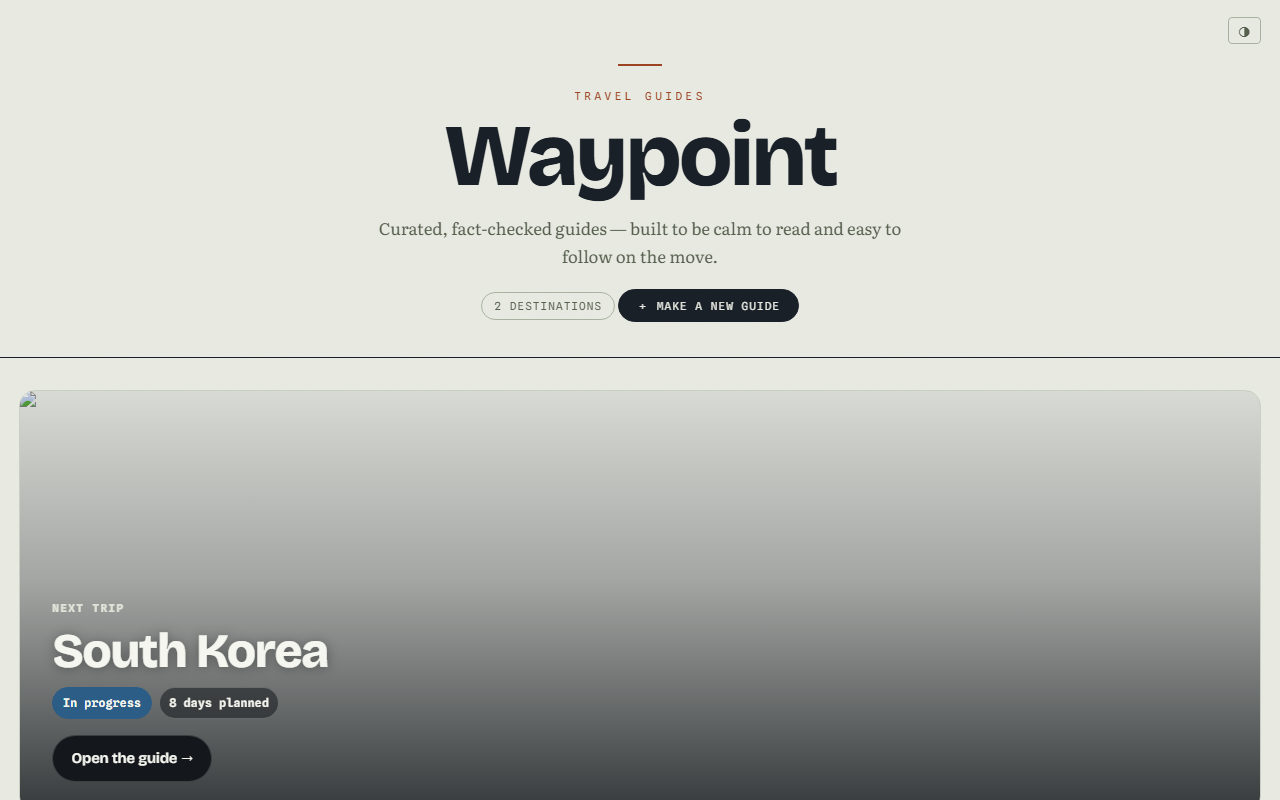
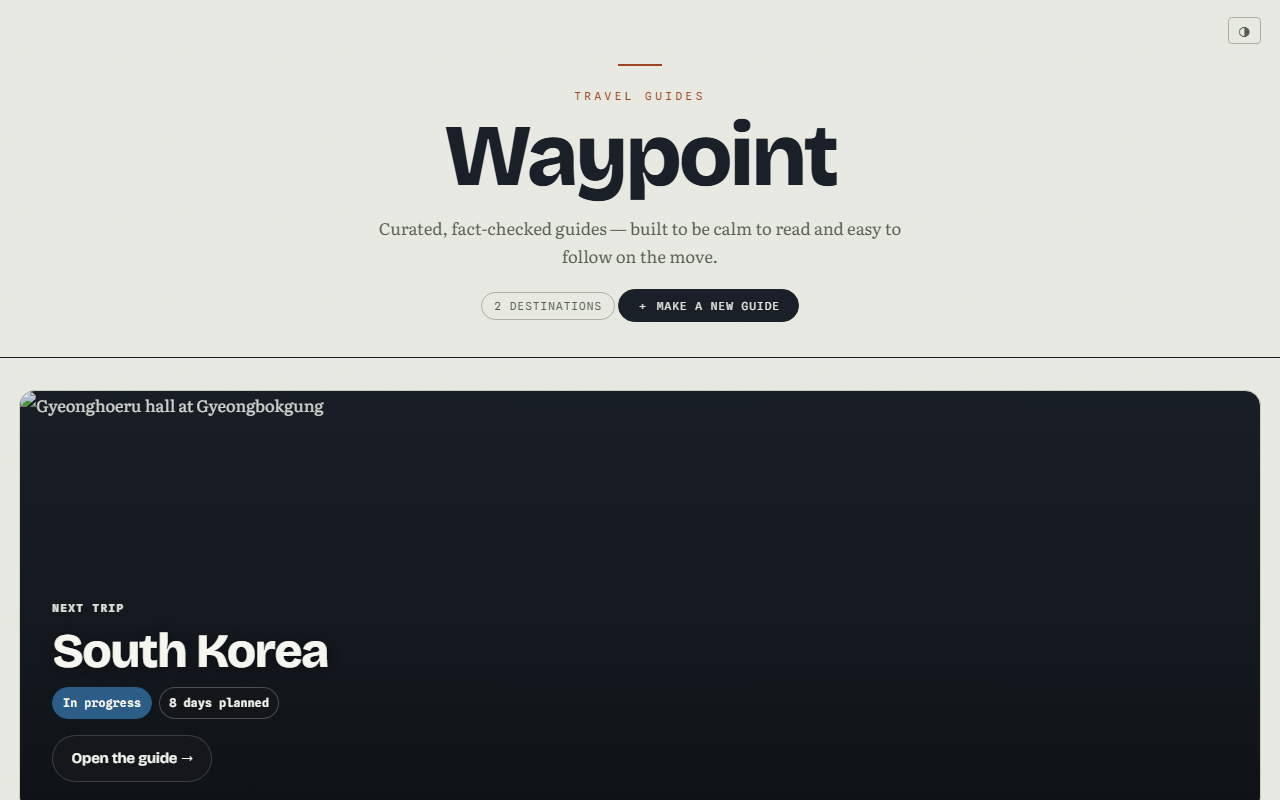
Phase 5b (convergence): View Transitions, route ribbon, dest-tz today, axe+Lighthouse CI — and the contrast bugs the new gate caught
Visible-by-design enhancements + quality gates, all branch-only:

- Native MPA View Transitions (hub <-> guide crossfade): pure CSS in base.css,
  progressive (unsupported browsers no-op), reduced-motion never opts in,
  timings ride the Phase 2 motion tokens.
- Route ribbon: dashed accent path connecting the numbered route steps — map
  vocabulary matching the cartographic identity; pure CSS, zero JS. Verified
  rendering live (2px dashed, per-guide accent).
- Destination-timezone "today": todayInTz() in util.js (+3 tests, injected
  clock) now drives BOTH the jump-to-today and the what's-next banner —
  fixes the device-clock bug WayFinder's retrospective warned about (a viewer
  at home now sees the traveler's in-country day). Verified live: banner shows
  "GO Fest Day 1 in Daejeon" — correct for Jul 11 in Seoul.
- a11y gate: axe-core rides the deterministic Playwright harness (hub +
  korea); serious/critical violations FAIL, minor report-only. It immediately
  caught real bugs, now fixed: hub-hero light-on-light fallback when the photo
  is absent (slow network/offline — bg now fixed dark ink under the photo) and
  opacity-dimmed tiny text (.hol-credit, .offline-note) under 4.5:1. Baselines
  regenerated for the intentional hero-fallback fix; suite 10/10.
- Lighthouse CI: report-only job on PRs (staticDistDir mirrored under the
  /Trip-Guides base path), never blocks; the binding perf gate stays
  check-perf-budget.mjs in the deploy.
[…]

diff --git a/tests/visual/a11y.spec.ts b/tests/visual/a11y.spec.ts
@@ -1,0 +1,37 @@
+/* Accessibility gate — axe-core over the hub + Korea guide, riding the same
+   deterministic harness as the visual suite (fixed clock, network aborted).
+   GATE: zero serious/critical violations. Minor/moderate findings are reported
+   to the console but don't fail — tighten once the backlog is empty. */
+import { test, expect, type Page } from "@playwright/test";
+import AxeBuilder from "@axe-core/playwright";
+
+const FIXED_TIME = new Date("2026-09-01T10:00:00+09:00");
+
+async function prep(page: Page, path: string) {
+  await page.route("**/*", (route) =>
+    route.request().url().startsWith("http://localhost:4322") ? route.continue() : route.abort(),
+  );
+  await page.clock.setFixedTime(FIXED_TIME);
+  await page.goto(path, { waitUntil: "networkidle" });
+  await page.waitForTimeout(400);
+}
+
+for (const [name, path] of [
+  ["hub", "/Trip-Guides/"],
+  ["korea guide", "/Trip-Guides/guides/korea/"],
+] as const) {
+  test(`a11y — ${name}`, async ({ page }) => {
+    await prep(page, path);
+    const results = await new AxeBuilder({ page }).analyze();
+    const bad = results.violations.filter((v) => v.impact === "serious" || v.impact === "critical");
+    const minor = results.violations.filter((v) => v.impact !== "serious" && v.impact !== "critical");
+    if (minor.length) {
+      console.log(`[a11y] ${name}: ${minor.length} minor/moderate finding(s) (non-blocking):`);
+      for (const v of minor) console.log(`  · ${v.id} (${v.impact}) — ${v.nodes.length} node(s): ${v.help}`);
+    }
+    expect(
+      bad.map((v) => `${v.id} (${v.impact}) — ${v.help}\n  ${v.nodes.slice(0, 3).map((n) => n.target.join(" ")).join("\n  ")}`),
+      "serious/critical accessibility violations",
+    ).toEqual([]);
+  });
+}

diff --git a/src/scripts/util.test.ts b/src/scripts/util.test.ts
@@ -1,0 +1,26 @@
+import { describe, it, expect } from "vitest";
+// @ts-expect-error — plain-JS module, no types needed for this test
+import { todayInTz } from "./util.js";
+
+// Fixed instants (injectable clock — never the real one).
+// 2026-07-10T20:00:00Z = Jul 11 05:00 in Seoul (UTC+9), Jul 10 16:00 in New York.
+const INSTANT = new Date("2026-07-10T20:00:00Z");
+
+describe("todayInTz", () => {
+  it("returns the DESTINATION calendar day, not the device/UTC day", () => {
+    expect(todayInTz("Asia/Seoul", INSTANT)).toEqual({ y: 2026, m: 7, d: 11 });
+    expect(todayInTz("America/New_York", INSTANT)).toEqual({ y: 2026, m: 7, d: 10 });
+  });
+
+  it("handles the year boundary across timezones", () => {
+    const nye = new Date("2026-12-31T16:00:00Z"); // Jan 1 01:00 Seoul, Dec 31 11:00 NY
+    expect(todayInTz("Asia/Seoul", nye)).toEqual({ y: 2027, m: 1, d: 1 });
+    expect(todayInTz("America/New_York", nye)).toEqual({ y: 2026, m: 12, d: 31 });
+  });
+
+  it("returns null for a missing or invalid timezone (caller falls back)", () => {
+    expect(todayInTz(null, INSTANT)).toBeNull();
+    expect(todayInTz("", INSTANT)).toBeNull();
+    expect(todayInTz("Not/AZone", INSTANT)).toBeNull();
+  });
+});

diff --git a/src/scripts/util.js b/src/scripts/util.js
@@ -13,3 +13,21 @@ export function reducedMotion() {
 export function tapHaptic() {
   try { navigator.vibrate && navigator.vibrate(9); } catch (e) {}
 }
+
+/* Today's calendar date AT THE DESTINATION (IANA tz), not on the device —
+   "today" for a trip means the traveler's day in-country (WayFinder
+   retrospective: using the device clock breaks today-semantics for anyone
+   checking the guide from another timezone). Returns {y, m (1-12), d}, or
+   null when tz is absent/invalid (callers fall back to the device date).
+   `now` is injectable for tests. */
+export function todayInTz(tz, now) {
+  if (!tz) return null;
+  try {
+    var parts = new Intl.DateTimeFormat("en-CA", {
+      timeZone: tz, year: "numeric", month: "2-digit", day: "2-digit",
+    }).formatToParts(now || new Date());
+    var get = function (t) { return Number((parts.find(function (p) { return p.type === t; }) || {}).value); };
+    var y = get("year"), m = get("month"), d = get("day");
+    return y && m && d ? { y: y, m: m, d: d } : null;
+  } catch (e) { return null; }
+}

diff --git a/src/scripts/guide-ui.js b/src/scripts/guide-ui.js
@@ -2,6 +2,8 @@
 // single hashed module cached across every guide page (was ~950 lines inline per
 // page). Config that used to come from Astro define:vars is now read from the
 // #tgConfig JSON script tag emitted by the layout.
+import { todayInTz } from "./util.js";
+
 const _cfgEl = document.getElementById("tgConfig");
 const _cfg = _cfgEl ? JSON.parse(_cfgEl.textContent || "{}") : {};
 const order             = _cfg.order || [];
@@ -277,9 +279,13 @@ const daysForBanner     = _cfg.daysForBanner || [];
 
           /* ── 3a. JUMP TO TODAY ──────────────────────────────────────── */
           (function () {
+            // "Today" means the traveler's day AT THE DESTINATION — a viewer
+            // checking from another timezone must see the in-country day, not
+            // their device's (falls back to the device date without a tz).
+            var destToday = todayInTz(destTzIana);
             var now = new Date();
-            var mo  = now.getMonth() + 1;
-            var d   = now.getDate();
+            var mo  = destToday ? destToday.m : now.getMonth() + 1;
+            var d   = destToday ? destToday.d : now.getDate();
             // Match day cards whose .d label contains today's month-day (e.g. "Jul 9", "Jul 14")
             var plain  = MONTHS[mo - 1] + " " + d;
             document.querySelectorAll(".day").forEach(function (card) {
@@ -559,7 +565,9 @@ const daysForBanner     = _cfg.daysForBanner || [];
             var text  = document.getElementById("wnText");
             if (!box || !text || !daysForBanner.length) return;
 
-            var now = new Date();
+            // Destination-calendar "today" (see 3a) — device date only as fallback.
+            var _dt = todayInTz(destTzIana);
+            var now = _dt ? new Date(_dt.y, _dt.m - 1, _dt.d) : new Date();
             var firstParts = String(daysForBanner[0].date).split(/\s+/);
             var firstMoIdx = MONTHS.indexOf(firstParts[1]);
             var firstDay   = parseInt(firstParts[2], 10);
@@ -585,7 +593,7 @@ const daysForBanner     = _cfg.daysForBanner || [];
             });
             if (!days.length) return;
 
-            var today = new Date(); today.setHours(0, 0, 0, 0);
+            var today = new Date(now); today.setHours(0, 0, 0, 0); // dest-calendar day (from `now` above)
             if (today < days[0].date || today > days[days.length - 1].date) return;
 
             var match    = days.find(function (d) { return d.date.getTime() === today.getTime(); });

diff --git a/src/styles/base.css b/src/styles/base.css
@@ -36,6 +36,17 @@
   --bg:#14181c;--bg2:#1b2026;--ink:#e5e9e0;--card:#1e242b;--rule:#333b44;--rule2:#48525c;--muted:#97a08f;--green:#6aab76;--warn:#d9923f}}
 [data-theme="dark"]{--bg:#14181c;--bg2:#1b2026;--ink:#e5e9e0;--card:#1e242b;--rule:#333b44;--rule2:#48525c;--muted:#97a08f;--green:#6aab76;--warn:#d9923f}
 
+/* --- CROSS-PAGE VIEW TRANSITIONS ------------------------------------------- */
+/* Native MPA View Transitions (hub ↔ guide): a brief crossfade instead of the
+   hard white flash. Pure progressive enhancement — browsers without the API
+   ignore all of this; reduced-motion never opts in (the @media wrapper IS the
+   documented opt-out pattern). Timings ride the motion tokens above. */
+@media (prefers-reduced-motion: no-preference) {
+  @view-transition { navigation: auto; }
+  ::view-transition-old(root) { animation-duration: var(--dur-ui) }
+  ::view-transition-new(root) { animation-duration: var(--dur-reveal); animation-timing-function: var(--ease-out-expo) }
+}
+
 /* --- RESET & BASE ---------------------------------------------------------- */
 *{margin:0;padding:0;box-sizing:border-box}
 [hidden]{display:none!important}

diff --git a/src/styles/guide.css b/src/styles/guide.css
@@ -249,6 +249,10 @@ a.stale-pill:hover{background:color-mix(in srgb,var(--warn) 12%,transparent)}
 ol.steps{margin:.4rem 0 .1rem;padding-left:0;list-style:none;counter-reset:step}
 ol.steps li{position:relative;padding-left:2.1rem;margin-bottom:.7rem;counter-increment:step}
 ol.steps li::before{content:counter(step);position:absolute;left:0;top:.05rem;width:1.45rem;height:1.45rem;background:var(--ink);color:var(--bg);font-family:var(--font-data);font-size:.72rem;display:flex;align-items:center;justify-content:center;border-radius:3px}
+/* Route ribbon — a dashed path connecting the step numerals, the same visual
+   vocabulary as a route drawn on a map (the site's cartographic identity).
+   Pure CSS; sits behind/between the numeral squares. */
+ol.steps li:not(:last-child)::after{content:"";position:absolute;left:calc(.725rem - 1px);top:1.65rem;bottom:-.75rem;width:2px;background:repeating-linear-gradient(to bottom,var(--accent) 0 4px,transparent 4px 8px);opacity:.45}
 
 /* === EMBEDDED MAP ============================================================ */
 .osmmap{width:100%;height:300px;border:1px solid var(--rule2);border-radius:5px;display:block;margin:.4rem 0 .3rem;background:var(--bg2)}
@@ -413,7 +417,7 @@ body{overflow-x:clip}
 .hol-near li{padding:.15rem 0;color:var(--ink)}
 .hol-rel{color:var(--muted)}
 .hol-note{font-size:.82rem;color:var(--muted);margin:.6rem 0 0}
-.hol-credit{font-family:var(--font-data);font-size:.58rem;color:var(--muted);text-align:right;margin-top:.4rem;opacity:.7}
+.hol-credit{font-family:var(--font-data);font-size:.58rem;color:var(--muted);text-align:right;margin-top:.4rem} /* no opacity knockdown — --muted alone holds ≥4.5:1; dimming tiny text broke the contrast gate */
 .hol-src{color:var(--muted);text-decoration:underline;text-underline-offset:2px}
 /* If holiday data is unavailable the wrapper stays [hidden]; collapse the empty
    .block so there's no gap where the section would have been. */
@@ -488,7 +492,7 @@ details.card.is-collapsible>.block-body{padding:1.1rem 1.4rem 1.25rem}
 }
 
 /* === OFFLINE NOTE ============================================================ */
-.offline-note{display:inline-block;margin-top:.4rem;font-size:.76rem;color:var(--muted);opacity:.85}
+.offline-note{display:inline-block;margin-top:.4rem;font-size:.76rem;color:var(--muted)} /* no opacity — see .hol-credit */
 
 /* === RAID COUNTER TABLES & COLLAPSIBLE DETAILS =============================== */
 /* Used in GO Fest prose sections — <details>/<summary> for collapsible boss charts */

diff --git a/src/styles/hub-cards.css b/src/styles/hub-cards.css
@@ -4,7 +4,11 @@
    are live data re-plated from the guides' own modules. */
 
 /* ── Next-trip hero ───────────────────────────────────────────────────────── */
-.hub-hero{position:relative;display:block;overflow:hidden;border-radius:var(--r-lg);margin:0 0 1.6rem;min-height:340px;background:var(--card);border:1px solid var(--rule);color:#f4f6ef;text-decoration:none;isolation:isolate}
+/* Fallback background is FIXED dark ink (not var(--card)): the hero text is
+   light-on-photo, so before/without the photo (slow network, offline — the SW
+   precaches pages, not Commons photos) it must sit on a dark ground in BOTH
+   themes. The loaded photo covers this entirely. Found by the axe gate. */
+.hub-hero{position:relative;display:block;overflow:hidden;border-radius:var(--r-lg);margin:0 0 1.6rem;min-height:340px;background:#1a2028;border:1px solid var(--rule);color:#f4f6ef;text-decoration:none;isolation:isolate}
 .hub-hero-img{position:absolute;inset:0;width:100%;height:100%;object-fit:cover;z-index:-2}
 .hub-hero-scrim{position:absolute;inset:0;z-index:-1;background:linear-gradient(to top,rgba(12,16,20,.82) 0%,rgba(12,16,20,.35) 55%,rgba(12,16,20,.12) 100%)}
 .hub-hero-body{display:flex;flex-direction:column;gap:.5rem;justify-content:flex-end;min-height:340px;padding:1.6rem 1.5rem 1.4rem}